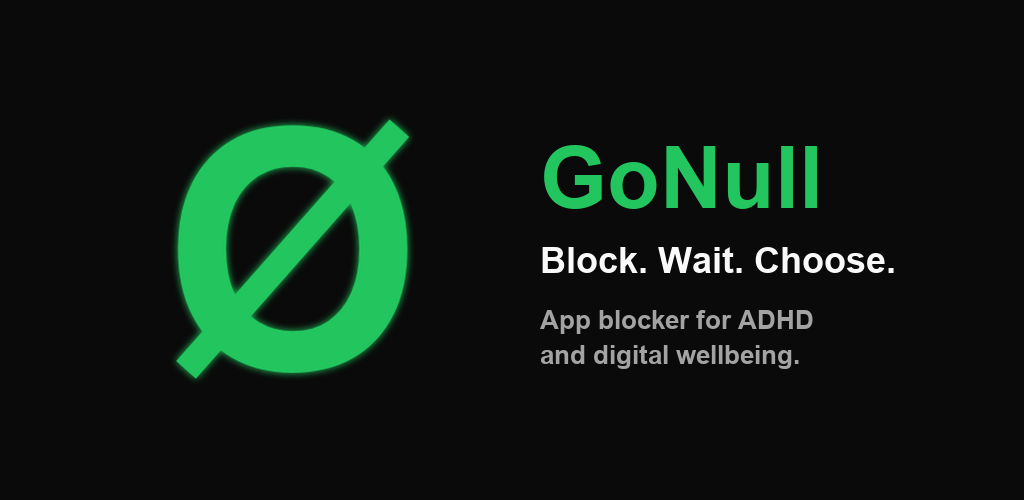
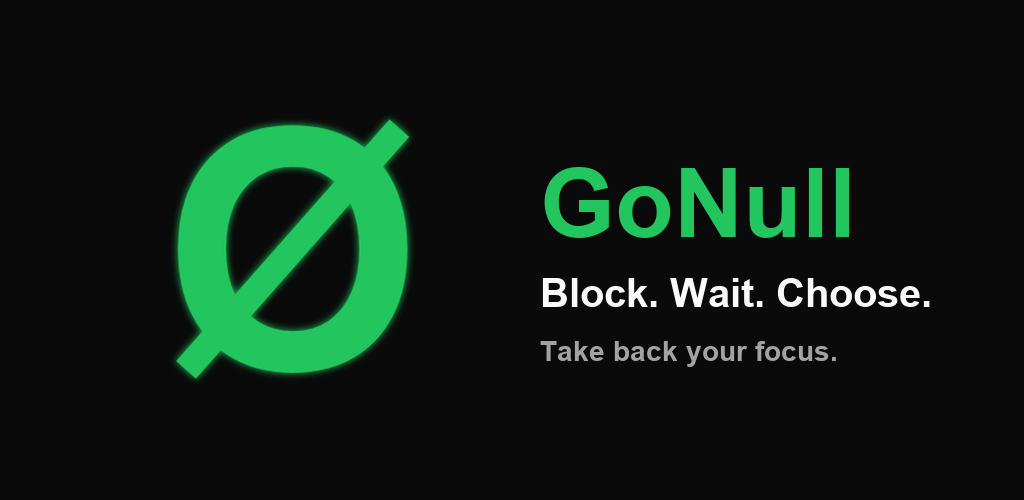
Bump target SDK to 35, scrub medical-adjacent copy, wire beta feedback link
- targetSdk/compileSdk 34 -> 35 (Play minimum), versionCode 3, versionName 1.0.2
- Reframe ACCESSIBILITY_JUSTIFICATION.md as a digital-wellbeing tool to avoid
  triggering Play's health-app review
- Replace 'social media addiction' wording in Settings About card with
  'build healthier digital habits'
- Regenerate feature-graphic without 'App blocker for ADHD' subtitle
- Add BETA_FEEDBACK_URL constant and 'Send beta feedback' link in Settings

Changed region(s): [[0.5312, 0.27, 0.9062, 0.75]]

diff --git a/app/src/main/java/app/gonull/ui/screens/settings/SettingsScreen.kt b/app/src/main/java/app/gonull/ui/screens/settings/SettingsScreen.kt
@@ -306,7 +306,7 @@ fun SettingsScreen(
                         )
                         Spacer(modifier = Modifier.height(8.dp))
                         Text(
-                            "An app blocker that uses commitment contracts to help you break social media addiction.",
+                            "An app blocker that uses commitment contracts to help you build healthier digital habits.",
                             style = MaterialTheme.typography.bodyMedium,
                             color = GoNullGray
                         )
@@ -319,6 +319,18 @@ fun SettingsScreen(
                             modifier = Modifier.clickable {
                                 context.startActivity(
                                     Intent(Intent.ACTION_VIEW, Uri.parse(Constants.PRIVACY_POLICY_URL))
+                                )
+                            }
+                        )
+                        Spacer(modifier = Modifier.height(8.dp))
+                        Text(
+                            text = "Send beta feedback",
+                            style = MaterialTheme.typography.bodyMedium,
+                            color = GoNullGreen,
+                            textDecoration = TextDecoration.Underline,
+                            modifier = Modifier.clickable {
+                                context.startActivity(
+                                    Intent(Intent.ACTION_VIEW, Uri.parse(Constants.BETA_FEEDBACK_URL))
                                 )
                             }
                         )

diff --git a/app/src/main/java/app/gonull/util/Constants.kt b/app/src/main/java/app/gonull/util/Constants.kt
@@ -3,6 +3,7 @@ package app.gonull.util
 object Constants {
     // Public-facing URLs
     const val PRIVACY_POLICY_URL = "https://gist.github.com/jung-life/401c90e08c2d1eb0892eb4fd5d57189f"
+    const val BETA_FEEDBACK_URL = "https://docs.google.com/forms/d/e/1FAIpQLSdWKNJ4k7niGWrkikrRzSllXH5CaRljbh2vQ7PmUAK8QlbsXg/viewform"
 
     // Default settings
     const val DEFAULT_UNLOCK_DELAY_MINUTES = 30

diff --git a/legal/ACCESSIBILITY_JUSTIFICATION.md b/legal/ACCESSIBILITY_JUSTIFICATION.md
@@ -13,40 +13,39 @@ can verify they match.
 
 ## Short version (Play Console field)
 
-GoNull is an app blocker for users with ADHD, executive-function challenges,
-and digital-impulse disorders. The Accessibility Service is used **only** to
-detect when a user-selected blocked app comes to the foreground (the
-`TYPE_WINDOW_STATE_CHANGED` event), so GoNull can immediately render an
-on-screen friction barrier asking the user to confirm or wait through a
-delay before proceeding.
+GoNull is a digital-wellbeing app blocker. The Accessibility Service is used
+**only** to detect when a user-selected blocked app comes to the foreground
+(the `TYPE_WINDOW_STATE_CHANGED` event), so GoNull can immediately render an
+on-screen friction barrier asking the user to confirm or wait through a delay
+before proceeding.
 
 GoNull does not read the contents of any screen, capture text, monitor
 keystrokes, or record any user input. Only the package-name field of the
 window-state-change event is inspected, and only against a list of apps the
-user has explicitly chosen to block. Nothing is transmitted off the device —
-the app does not declare the `INTERNET` permission. Accessibility access is
-the only practical way to reliably interrupt an addictive-app launch on
-modern Android; the alternative (`UsageStatsManager` polling) introduces a
-2-second lag during which the harmful behavior is already occurring,
-defeating the user's goal.
+user has explicitly chosen to block. The only data that leaves the device is
+anonymous Crashlytics reports for stability monitoring; user content stays
+local. Accessibility access is the only practical way to reliably interrupt
+an app launch in time to be useful — the alternative (`UsageStatsManager`
+polling) introduces a 2-second lag during which the engagement loop has
+already begun, defeating the user's stated goal.
 
 ## Long version (in-app disclosure & developer-response template)
 
 ### Who GoNull is for
 
-GoNull is a digital-wellbeing tool aimed at users who struggle with
-self-regulation around specific apps — most commonly social media, video,
-news, and gambling apps. Our target users include people with:
+GoNull is a digital-wellbeing tool aimed at users who want help putting their
+phone down. The target audience is people who:
 
-- ADHD, where impulsive task-switching to a high-stimulation app derails work or sleep.
-- Executive-function challenges (autism spectrum, traumatic brain injury, etc.) where the gap between intention and behavior is large.
-- Digital impulse-control disorders, often co-occurring with anxiety or depression.
+- Lose hours to short-form video and feed-based apps without meaning to.
+- Have tried "willpower-only" blockers and bounced.
+- Want stronger commitment mechanisms than the OS-level Digital Wellbeing
+  controls offer (timers without enforcement, app limits the user can
+  override in one tap).
 
-These users have repeatedly expressed in research (e.g., the work of Adam
-Alter, Cal Newport, and clinical literature on internet-use disorder) that
+These users have repeatedly expressed in research and product reviews that
 **friction at the moment of impulse** is more effective than retrospective
-willpower. That moment-of-impulse intervention is exactly what the
-Accessibility Service enables.
+willpower or post-hoc usage reports. That moment-of-impulse intervention is
+exactly what the Accessibility Service enables.
 
 ### What GoNull does with the Accessibility API
 
@@ -77,12 +76,12 @@ flags set.
 ### What we collect and where it goes
 
 - **Inspected:** the foreground `packageName` field, in memory only.
-- **Logged:** when a user-blocked app is intercepted, GoNull writes a single
-  row to its local database recording the package and the timestamp. This is
-  used to power the "Today" stats card in-app.
-- **Transmitted:** nothing. GoNull does not declare `INTERNET` and contains
-  no networking code, analytics SDKs, advertising IDs, or third-party
-  trackers.
+- **Logged locally:** when a user-blocked app is intercepted, GoNull writes a
+  single row to its on-device database recording the package and the
+  timestamp. This powers the "Today" stats card.
+- **Transmitted:** anonymous crash reports via Firebase Crashlytics (stack
+  trace, device model, OS version, app version, random install ID). No user
+  content, no installed-app list, no usage data, no personal identifiers.
 - **Retention:** the local database is wiped on uninstall. Users can clear
   individual entries from inside the app.
 
@@ -92,15 +91,12 @@ We support both approaches and ship them as a hybrid. We default to the
 Accessibility approach because it is the only Android API that allows us to
 **block at the moment the user opens the app**, which is the entire user
 benefit. `UsageStatsManager` polling can only tell us *after the fact* that
-the user has been in the foreground app for 2+ seconds — by which point a
-single dopamine cycle has already played, and our intervention is too late
-to be therapeutic. Users with ADHD or impulse-control disorders are
-particularly sensitive to this lag; clinical literature on
-exposure-and-response prevention shows that delaying the response to a
-trigger is what builds tolerance.
+the user has been in the foreground app for 2+ seconds — by which point the
+engagement cycle has already started, and the friction barrier is too late
+to be useful.
 
-For users who are uncomfortable granting Accessibility Service access —
-or whose enterprise/MDM policies prohibit it — GoNull falls back to a
+For users who would rather not grant Accessibility Service access — or whose
+enterprise/MDM policies prohibit it — GoNull falls back to a
 `UsageStatsManager` polling service. The fallback is functional but the
 2-second lag is documented in onboarding as a degraded experience, not the
 default.
@@ -120,13 +116,13 @@ default.
 
 ### Privacy & compliance commitments
 
-- We do not sell or share any data; there is none to sell or share.
-- We do not embed third-party SDKs that have separate data flows. Accompanist
-  and Coil ship code only; they make no network calls of their own. ExoPlayer
-  is used solely to play a bundled local onboarding video file
-  (`res/raw/onboarding.mp4`).
-- Our privacy policy is in `legal/PRIVACY_POLICY.md` and will be hosted at
-  `[POLICY URL]` before submission.
+- We do not sell or share any data.
+- We do not embed third-party SDKs that have separate data flows beyond the
+  disclosed Crashlytics. Accompanist and Coil ship code only; they make no
+  network calls of their own. ExoPlayer is used solely to play a bundled
+  local onboarding video file (`res/raw/onboarding.mp4`).
+- Our privacy policy is at `gonull.app/privacy` (and in-repo at
+  `legal/PRIVACY_POLICY.md`).
 
 ### If the reviewer believes Accessibility is not justified
 
@@ -144,6 +140,6 @@ re-engineering effort.
 
 ### Contact
 
-For policy-review questions: `[CONTACT EMAIL]`.
+For policy-review questions: `infinitydata.ai@gmail.com`.
 For demo access: a sample APK and a 30-second screen-record demonstrating the
 Accessibility flow from grant to block-and-unblock is available on request.
